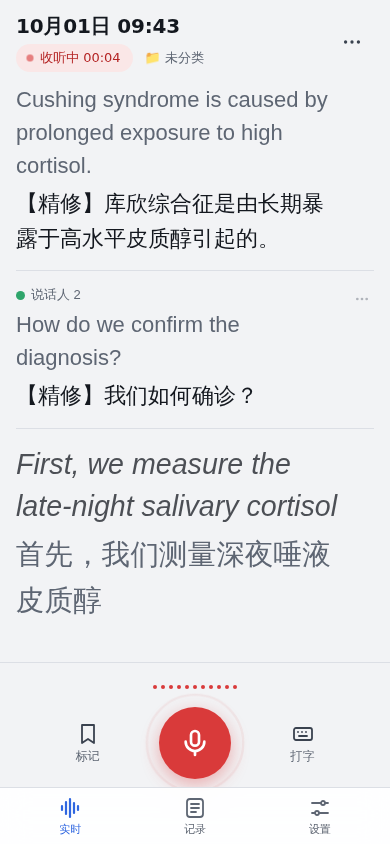
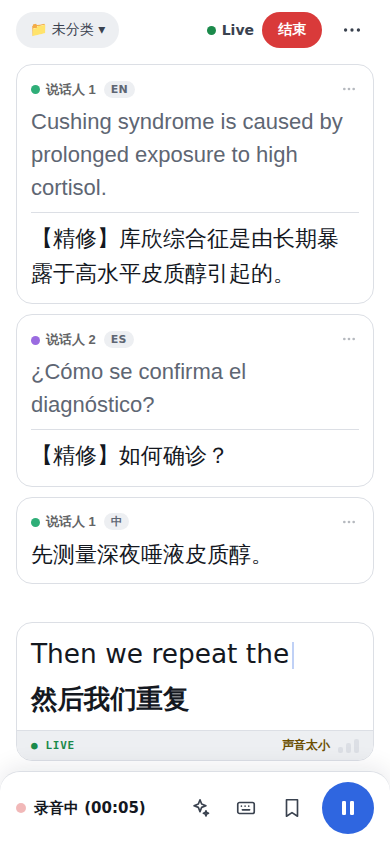
README：新导航与实时页说明、多语言识别、手动测试清单 37–44、截图

diff --git a/index.html b/index.html
@@ -48,7 +48,7 @@
 }
 *,*::before,*::after{box-sizing:border-box}
 html{height:100%;scroll-padding-top:env(safe-area-inset-top,0px)}
-body{height:100%;margin:0;background:var(--bg);color:var(--ink);font-family:var(--font-zh);-webkit-tap-highlight-color:transparent;-webkit-font-smoothing:antialiased;padding:env(safe-area-inset-top,0px) env(safe-area-inset-left,0px) 0 env(safe-area-inset-right,0px)}
+body{height:100%;margin:0;background:var(--home-bg);color:var(--ink);font-family:var(--font-zh);-webkit-tap-highlight-color:transparent;-webkit-font-smoothing:antialiased;padding:env(safe-area-inset-top,0px) env(safe-area-inset-left,0px) 0 env(safe-area-inset-right,0px)}
 .app{height:100%;display:flex;flex-direction:column;max-width:720px;margin:0 auto;position:relative}
 button{font-family:inherit;color:inherit}
 button:not(:disabled){-webkit-user-select:none;user-select:none}
@@ -382,7 +382,7 @@ body.selecting .card .chk{display:block}
 input:not([type=range]):focus,textarea:focus{outline:none;border-color:var(--accent)!important;box-shadow:0 0 0 3px color-mix(in srgb,var(--accent) 20%,transparent)}
 .hint{text-align:center;font-size:13px;color:var(--muted);padding:2px var(--s2);line-height:1.4}
 .hint:empty{display:none}
-.stage{flex:1;min-height:0;position:relative;overflow:hidden}
+.stage{flex:1;min-height:0;position:relative;overflow:hidden;overflow:clip}   /* clip：屏幕外的页面里的元素获得焦点时，容器也不会被横向滚动 */
 #home{position:absolute;inset:0;display:flex;flex-direction:column;background:var(--home-bg)}
 .topbar{display:flex;align-items:center;justify-content:space-between;gap:var(--s1);padding:8px var(--s2);min-height:56px;flex:none}
 .tb-right{display:flex;align-items:center;gap:var(--s1)}
@@ -491,6 +491,7 @@ body.zh-only .entry .en{max-height:none;opacity:1;overflow:visible}
 .rec-head{position:sticky;top:0;z-index:3;background:var(--bg);margin:0 calc(var(--s2) * -1);padding:0 var(--s2)}
 #selBar{position:sticky;bottom:0;margin:0 calc(var(--s2) * -1);padding:10px var(--s2) calc(10px + env(safe-area-inset-bottom,0px));z-index:4}
 body.selecting #selBar{display:flex}
+body.has-page{background:var(--bg)}
 .recbar{display:flex;align-items:center;justify-content:center;gap:8px;flex:none;width:100%;border:0;background:var(--rec);color:#fff;font-size:13px;font-weight:600;min-height:28px;cursor:pointer;font-variant-numeric:tabular-nums}
 .recbar[hidden]{display:none}
 .recbar .recdot{background:#fff;width:8px;height:8px}
@@ -1473,7 +1474,7 @@ body.selecting #selBar{display:flex}
     o=o||{};
     const idx=pageStack.indexOf(name);
     if(idx>=0 && idx<pageStack.length-1) closePagesTo(idx+1);
-    if(idx<0){ pageStack.push(name); history.pushState({d:pageStack.length},""); const el=pageEl(name); el.scrollTop=0; el.style.zIndex=30+pageStack.length; el.classList.add("open"); }   // 后打开的页面盖在上面
+    if(idx<0){ pageStack.push(name); history.pushState({d:pageStack.length},""); const el=pageEl(name); $("records").parentNode.scrollLeft=0; el.scrollTop=0; el.style.zIndex=30+pageStack.length; el.classList.add("open"); }   // 后打开的页面盖在上面
     if(name==="records"){ if(o.trash) gotoTrash(); else if($("recDetail").hidden) recRefresh(); }
     if(name==="settings"){ applySettings(); refreshStoreInfo(); }
     closeMoreMenu(); applyUi();
